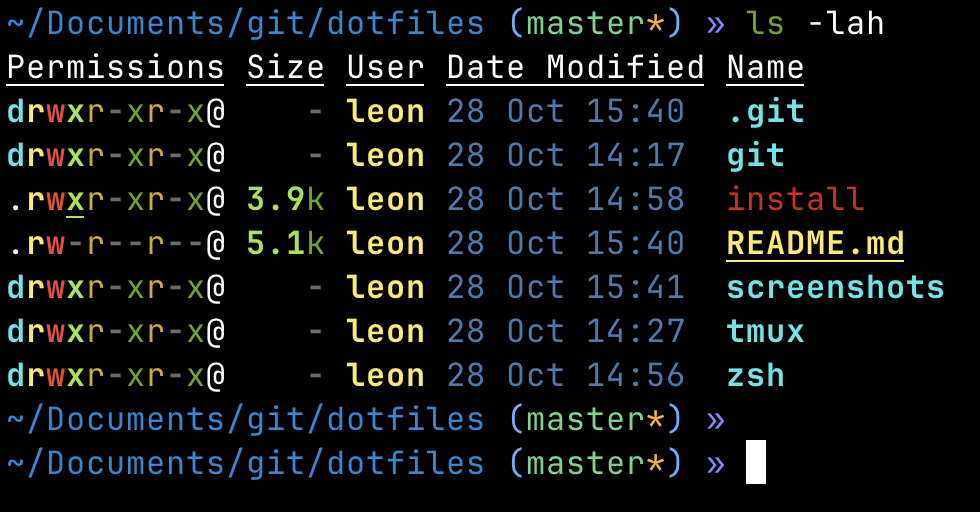
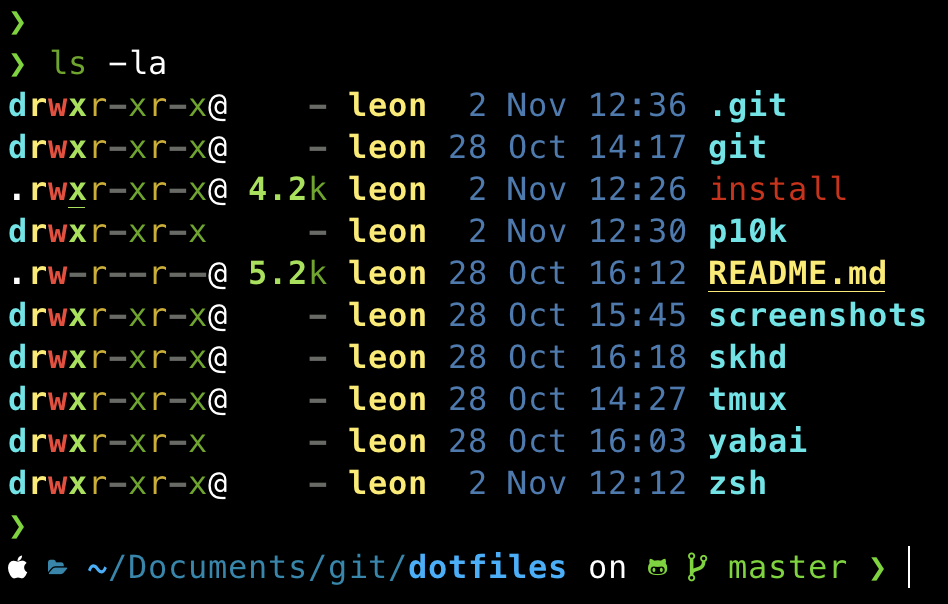
(feat) update screenshot and readme

diff --git a/README.md b/README.md
@@ -16,6 +16,10 @@ This repository contains my public dotfiles. It comes with a single installer th
 
 You probably want to fork this repo unless you are happy with exactly what I have here. Regardless, clone the repo somewhere. This will become the source of your dotfiles too.
 
+The recommended font (with all of the icons etc.) is Meslo Nerd Font, and is documented [here](https://github.com/romkatv/powerlevel10k/blob/master/font.md).
+
+With the font installed and configured to be used in your terminal, clone the repo:
+
 ```bash
 git clone https://github.com/leonjza/dotfiles.git
 cd dotfiles
